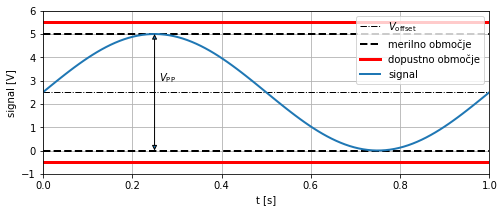
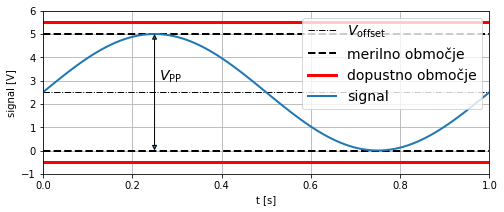
Update documentation

Changed region(s): [[0.5952, 0.0566, 0.9821, 0.5377], [0.2976, 0.3396, 0.3571, 0.3962], [0.9524, 0.4528, 0.9821, 0.4811]]

diff --git a/searchindex.js b/searchindex.js
@@ -1,1 +1,1 @@
-Search.setIndex({docnames:["intro","notebooks/01 - Uvod v LabView","notebooks/02 - LabView in Arduino, Python"],envversion:{"sphinx.domains.c":2,"sphinx.domains.changeset":1,"sphinx.domains.citation":1,"sphinx.domains.cpp":4,"sphinx.domains.index":1,"sphinx.domains.javascript":2,"sphinx.domains.math":2,"sphinx.domains.python":3,"sphinx.domains.rst":2,"sphinx.domains.std":2,"sphinx.ext.intersphinx":1,"sphinxcontrib.bibtex":9,sphinx:56},filenames:["intro.md","notebooks\\01 - Uvod v LabView.ipynb","notebooks\\02 - LabView in Arduino, Python.ipynb"],objects:{},objnames:{},objtypes:{},terms:{"0":[1,2],"001":[],"01":[1,2],"018849":[],"02":2,"03":[],"037697":[],"056541":[],"08":[],"0x1b62e986c50":[],"0x1e373b44100":[],"0x1e373b6ff40":[],"0x1e373c2d1e0":[],"0x1f3b747b070":[],"0x1f3b74c6620":[],"0x1f3b7516bc0":[],"0x242f512a500":[],"0x242f7271b10":[],"0x242f72c6bc0":[],"0x25052e82080":2,"0x25055149a50":2,"0x2505514a590":2,"0x259f4cfead0":[],"0x259f4d4e5f0":[],"0x259f4dc3a60":[],"0x2807a535f90":[],"0x2807c60fe50":[],"0x2807c685f60":[],"0x28bfba92110":[],"1":0,"10":[],"100":2,"1000":1,"115200":2,"13":2,"18":[],"19680801":[],"2":[],"200":[],"201":[],"2014":[],"202":[],"2022":[],"203":[],"204":[],"25":2,"250":2,"26":2,"3944063186645507812":[],"4":[],"432x288":2,"46":[],"48":[],"487619402":[],"5":[],"5v":2,"6":2,"71":[],"72":[],"73":[],"74":[],"75":[],"8":2,"9600":2,"\u010da":1,"\u010dasa":2,"\u010dasu":2,"\u010de":[0,1,2],"\u010demer":1,"\u010deprav":[1,2],"\u010dimve\u010d":2,"\u0161e":2,"\u0161ele":2,"\u0161irok":2,"\u0161t":2,"\u0161tevi\u010dnici":1,"\u0161tevil\u010dnic":1,"\u0161tevil\u010dnici":1,"\u0161tevila":2,"\u0161tevilo":2,"\u0161tevilom":1,"\u0161tevilu":2,"\u0161tudijskega":0,"\u0161um":2,"\u0161uma":2,"\u017ee":[1,2],"\u017eelimo":[1,2],"\u017eelit":[1,2],"\u017eeljenimi":1,"blji\u017enic":[],"blji\u017enica":1,"boolean":2,"brezpla\u010dn":2,"brezpla\u010dnih":2,"default":[],"do":[1,2],"dolo\u010denih":1,"dolo\u010denim":1,"dolo\u010ditev":2,"doma\u010d":[],"doma\u010da":[],"doma\u010dih":[0,1,2],"dopu\u0161\u010da":2,"druga\u010d":0,"frekven\u010dnega":2,"function":[],"grafi\u010dnega":1,"grafi\u010dni":1,"grafi\u010dno":[1,2],"import":[1,2],"izpi\u0161it":2,"izri\u0161":2,"kakr\u0161negakoli":0,"klju\u010dem":2,"knji\u017enic":2,"lo\u010deni":2,"lu\u010di":2,"mi\u0161kinim":1,"mo\u010di":2,"mo\u017enost":0,"mo\u017enosti":2,"mo\u017enostjo":1,"mogo\u010d":[0,1],"mogo\u010da":2,"na\u0161":2,"na\u0161em":2,"najla\u017ej":1,"najosnovnej\u0161ega":1,"najvi\u0161ja":2,"naklju\u010dno":2,"nalo\u017e":1,"nalo\u017eeni":2,"naprednej\u0161":2,"ne\u017eelenega":2,"numeir\u010dnega":[],"numer\u010dnih":1,"numeri\u010dn":2,"numeri\u010dnega":1,"numeri\u010dnih":2,"numeri\u010dnimi":1,"ob\u010dutljivosti":2,"obi\u010dajno":[1,2],"obmo\u010dj":2,"obmo\u010dja":2,"odlo\u010dimo":1,"okvir\u010dki":0,"omogo\u010da":[0,1,2],"omogo\u010dja":2,"ozna\u010den":[1,2],"ozna\u010deni":0,"ozna\u010dimo":1,"periodi\u010dnega":2,"plo\u0161\u010d":[1,2],"plo\u0161\u010di":[1,2],"plo\u0161\u010do":2,"po\u010disti":1,"po\u0161kodujemo":2,"po\u017eenemo":1,"podro\u010dj":2,"pomo\u010di":1,"poro\u010dila":1,"poro\u010dilo":[0,2],"poro\u010dilu":[0,1],"pove\u017eemo":1,"pove\u017eet":1,"povle\u010det":1,"prej\u0161nji":2,"prese\u017eemo":2,"pridr\u017eujemo":0,"prika\u017e":1,"prika\u017eit":[1,2],"prikli\u010demo":1,"priklju\u010dimo":2,"priklju\u010dit":2,"priklju\u010dkom":2,"priklju\u010dkov":2,"ra\u010dunalnik":2,"raz\u0161irimo":1,"raz\u0161iritv":0,"razi\u0161\u010dit":[1,2],"razli\u010dnih":[1,2],"razli\u010dno":1,"re\u0161evali":0,"re\u0161itv":0,"return":[],"rez\u0161iritv":[],"stro\u017eja":2,"strojni\u0161tvo":0,"switch":2,"te\u017eav":2,"tipi\u010dno":2,"to\u010dk":2,"to\u010dno":1,"true":2,"u\u010dilnic":0,"u\u010dilnici":[0,1,2],"upo\u0161tevali":2,"v\u010dasih":1,"ve\u010d":[0,2],"ve\u010dini":1,"ve\u010dkrat":1,"ve\u010dnamenskih":2,"ve\u010dopravilnost":1,"vi\u0161j":0,"visokofrekven\u010dnega":2,"vklju\u010dit":[0,2],"vklju\u010duj":[1,2],"vzor\u010denja":2,"za\u010dnemo":1,"za\u010dnet":1,"zaklju\u010denem":2,"zaklju\u010dimo":1,"zapi\u0161":2,"zdru\u017eit":2,A:[1,2],As:[],But:[],For:[],If:[],In:[],It:[],No:[],That:[],The:[],There:[],To:[1,2],With:[],_:2,_ioncontext:[],_lvm_dump:[],_read_lvm_bas:[],a0:2,a1:2,about:[],accept:[],adc:2,add_:[],aditivno:2,ali:[1,2],align:[],all:[],all_seg:2,allow:[],also:[],amplitudo:1,an:[],analog:2,analognem:2,analognih:2,analognimi:2,analogno:2,analogread:2,ang:1,ani:[],annot:2,apajalna:2,aplikacij:2,aplikacijah:2,aplikacijam:1,appdata:[],append:2,ar:[],arang:2,arduina:2,arduino:0,arduinom:[],arra:2,arrai:[1,2],arrowprop:2,arrowstyl:2,auditori:[],australia:[],avtomatizacij:1,avtomatska:1,ax:2,axhlin:2,b:1,barvo:2,base:[],baud:2,beaglebon:2,begin:[],being:[],berljivo:1,bib:[],bibliographi:[],bibtex:[],bistven:2,bit:2,biti:2,bitna:2,bitni:2,black:2,block:1,blokovneg:1,blokovnega:[1,2],blokovnem:1,blokovni:1,bnc:2,bo:[0,1],bodit:[0,2],bodo:[1,2],bolj:2,bomo:[0,1,2],book:[],bost:0,both:[],box:[],branj:1,branja:1,branju:2,brati:[0,1],brez:0,brian:[],brisban:[],brskalniku:0,build:[],built:[],bundl:[],c:2,call:[],can:[],cc:2,celic:[1,2],celoti:2,channel:2,channel_1:2,channel_2:2,chart:1,check:[],christoph:[],cite:[],close:2,cm:[],cmap:[],code:[],cognit:[],col:2,cold:[],color:[],com:2,command:[],comment:[],commonmark:[],commun:2,complete_data:2,concaten:2,confer:[],contain:1,content:[],control:1,convers:1,convert:[],coolwarm:[],cortex:[],creat:1,ctrl:1,custom_lin:[],cycler:[],d:2,da:[1,2],dac:2,dan:0,data:[1,2],date:[1,2],datotek:[0,2],datoteka:2,datoteki:2,datoteko:[0,1,2],de:[],decimal_separ:[1,2],defin:[],definirano:0,dejanjsk:2,del:[1,2],dela:1,delijo:2,delo:0,delov:1,delta_x:2,delu:2,depend:[],depth:[],desni:[1,2],desnim:1,detail:[],devic:2,diagram:1,diagrama:[1,2],diagramu:1,dict:2,dict_kei:[1,2],differ:[],digit:2,digitaln:2,digitalnega:2,digitalnih:2,digitalno:2,direct:[],directori:[],displai:[],dobili:2,dobimo:2,dobljenem:2,document:[],dodajanj:1,dodajanjem:1,dodajt:2,dodatek:[0,1,2],dodaten:1,dodati:1,dodatn:0,doe:[],dokler:1,dokumentov:0,dollar:[],domen:[],dopolnit:1,dopustn:2,dopustnih:2,dopustno:2,dostop:2,dostopamo:2,doubl:1,dovoljenih:2,download:0,drop:1,drsnikom:1,druga:[1,2],drugega:1,drugih:1,dt:2,dump_fil:[],dveh:2,e:[0,1,2],ecosystem:[],eden:2,edini:2,edit:[1,2],ekosistema:2,ekstremov:2,el:2,element:1,elementa:1,elementi:1,elementov:[1,2],els:[],emb:[],en:2,encod:[],end:[],enem:1,enostaven:2,enostavn:2,enostavni:2,enostavno:[0,1],enot:1,enotami:1,enumer:2,errno:[],error:1,escap:[],etc:[],evid:[],exampl:[],execut:1,express:1,extens:[],f:2,fakulteti:0,feel:[],few:[],fft:1,fig:[],figsiz:2,figur:2,file:[0,1,2],file_2:2,filenam:[],filenotfounderror:[],filtriranja:2,fix:[],flavor:[],follow:[],frekvenc:[1,2],frekvenco:1,from:1,front:1,frontier:[],funkcij:[1,2],funkcija:1,funkciji:2,funkcijo:[1,2],funkcijskem:1,funkcionalnost:2,g:1,ga:[0,1,2],gbina:2,gener:2,generir:0,generirajmo:1,generiramo:1,generiran:1,generiranj:[],generirati:1,get:[],give:[],glavami:2,glavnem:1,glej:2,glejt:[1,2],go:[],gpio:2,graf:[1,2],grafu:[1,2],graph:2,gre:[0,1,2],grid:2,guid:[],gumb:2,gumba:1,gumbom:[1,2],h:1,have:[],hdhpk14:[],header:2,heer:[],hello:1,help:[],here:[],highlight:1,hitro:1,hitrost:2,hitrosti:1,hkrati:2,hkratni:2,hobbyist:2,holdgraf:[],holdgraf_evidence_2014:[],hot:[],how:[],htjgeojc4za:[],html:[0,1],http:[],human:[],hz:[1,2],i2c:2,i:1,ignor:[],ii:[],ikono:1,im:2,ima:2,imag:[],imajo:[0,1],imenovan:1,includ:[],indek:2,indeksa:2,index:2,individualiziran:[1,2],individualizirana:0,inform:[],informacij:0,init:[],inlin:[],input:1,insert:[],instruct:[],instrument:1,instrumentov:1,integ:1,integracij:2,integracija:2,integriran:2,interact:[],interaktivnih:0,intern:[],invalid:[],ion:[],ipykernel_11680:[],ipykernel_13948:[],ipykernel_14608:[],ipykernel_16452:[],ipykernel_18788:[],ipykernel_18828:[],ipykernel_19740:[],ipykernel_5188:[],ipykernel_7136:[],ipynb:[],isstem:[],istem:2,iteracij:2,iteracijah:2,iteracijam:1,iteracijami:2,iteriramo:[1,2],iteriranju:1,iz:[0,1,2],izberemo:1,izbira:2,izbiro:2,izbrali:2,izbran:1,izbranega:[1,2],izbranem:2,izbranih:2,izbrano:[1,2],izhodni:2,izklop:2,izklopa:2,izklopimo:1,izm:[1,2],izpi:1,izrisovali:2,izrisuj:2,izvaja:0,izvajanj:1,izvajanja:1,izvedbam:1,izvedbi:[0,2],izvedejo:1,izvedemo:1,izvorna:0,izvoz:1,izvozit:1,je:[0,1,2],jezik:1,jezikih:1,jezikov:1,jeziku:1,jih:[0,1],jo:[0,1,2],jupyt:[0,1,2],jupyterbook:[],jupytext:[],just:[],k1:2,k2:2,k:2,kabel:2,kadar:2,kanal:2,kanal_1:2,kanal_2:2,kanala:2,kanali:2,kanalih:2,kanalov:2,kanalu:2,kasnej:1,kater:2,katerega:[1,2],kateregakoli:2,katerem:[0,2],kateri:[],katerih:[0,1,2],katerim:1,katerimi:2,katerm:[1,2],katero:1,keep:[],kei:[1,2],ker:2,kernel:[],ki:[0,1,2],kind:[],kjer:[1,2],klik:1,klikom:1,kljub:2,km:1,knight:[],ko:[1,2],koaksialn:2,koaksialnih:2,koda:0,kode:1,kodo:[0,1,2],koliko:2,komentarj:0,komentirajt:0,kompatibilnimi:1,komponento:2,komunikacij:1,konec:1,kontinuirano:1,kontroln:2,kontrolnega:1,kontrolnih:1,kontrolnimi:1,koristn:0,kot:[0,1],kratk:0,kratkem:1,kratko:[0,2],krmiljenj:2,krmiljenja:1,krmiln:[1,2],krmilni:2,la_:[],label:2,laboratorijskih:[0,1],labview:0,lahko:[1,2],languag:[],last:[],led:2,legend:2,len:2,let:[],letnem:0,letnika:0,lfilter:2,lib:[],like:[],limit:2,line2d:[],line:[],linspac:2,list:1,ljubljani:0,ll:[],loaded_data:2,loaded_data_2:2,loc:2,local:[],logspac:[],lot:[],ls:2,lvm:[1,2],lvm_data:[],lvm_read:[1,2],lw:2,m:1,magistrskega:0,major:[],make:[],makerhub:2,manag:2,mani:[],markdownfil:[],markedli:[],markup:[],math:[],mathrm:2,matplotlib:2,mbox:[],md:[],mea:1,mean:[],measur:1,med:[1,2],medium:[],mejah:2,mejitev:[],meni:1,menija:2,meniju:[0,1],meriln:2,merilnega:2,merilnih:2,merilno:2,merjenja:2,merjenju:2,metod:1,mikrokrmilniku:2,modela:2,modro:2,modul:[],modula:1,moramo:[1,2],more:[],moreov:[],most:[],multi_head:[1,2],multiprocess:1,must:[],n:2,na:[0,1,2],nabor:[1,2],naboru:2,nadgradimo:1,nadgradit:2,nadzorno:2,nadzorovati:2,naj:[1,2],najdemo:1,najdet:[0,1,2],najprej:0,nalg:2,nalog:[1,2],naloga:[],nalogi:[0,1],nalogo:0,nam:2,name:2,namen:2,namenjen:[0,1],namenjena:1,namenjeno:1,namesto:[1,2],namig:[1,2],nan:[],naovdilom:0,napajalni:2,napajan:2,napajanj:2,napak:1,napetost:2,napetosti:2,napetostjo:2,napolnimo:1,naprav:2,napravami:2,nasilno:2,naslednjega:0,naslednji:2,nastanku:0,nastavitev:2,nastavitv:2,nastavitvi:2,nastavljenega:2,nastavljeno:2,nation:1,navodila:[1,2],navodilom:0,ne:[1,2],need:[],nekaterimi:1,nekomercialno:2,neodvisn:2,nepopoln:1,neurosci:[],ni:[0,1,2],nist:[0,2],nizi:1,njihov:2,njim:1,note:[],notebook:[0,1,2],np:2,npr:[0,1],number:1,numer:1,numpi:2,o:1,obdelali:1,obdelava_:2,obdelavo:1,obdelujet:2,objavljena:0,oblik:2,oblika:[0,2],obliki:[0,1,2],obliko:[0,2],obstaja:1,ocen:0,od:[1,2],oddaja:[0,2],oddajanj:2,oddajati:2,oddaji:1,oddajo:[0,1,2],oddajt:2,oddati:0,odpiranju:2,odprava:2,odsek:1,odsotnost:0,off:[],offset:2,okolj:1,okolju:[0,1,2],om:1,omejen:2,omejitev:2,one:[],open:2,oper:[1,2],opr:1,oprem:[0,2],opremo:[1,2],optimalna:2,org:[],orodja:1,orodjem:2,orodn:2,osnov:2,osnovi:1,osnovna:1,osnovni:2,osnovnih:2,osnovno:2,osvetljen:2,other:[],out:[],output:2,overview:[],pa:[0,1,2],packag:2,page:[],paket:[1,2],paketom:2,paketov:2,panel:1,paramet:[1,2],parametr:2,parametri:[1,2],parametrov:2,particular:[],paslei:[],path:[],pavz:2,pdf:[0,1,2],peripher:2,pi:2,plb968815d7bb78f9c:[],plot:2,plt:2,png:1,po:[1,2],podan:1,podatek:2,podatk:[0,1,2],podatki:[1,2],podatkov:0,podatkovnega:1,podatkovni:[],podjetja:1,podlagi:1,podoben:1,podobnih:2,podobno:1,podpira:2,podprogram:[1,2],podprograma:1,podprogrami:[],podprogramu:1,podprta:1,podprtih:2,podtkov:1,podtopkov:2,pogled:1,pogledamo:1,pogledu:1,poglejmo:[1,2],pogoja:1,pogosto:2,poleg:1,polj:1,polja:[1,2],polju:1,poljubn:1,poljubno:2,pomag:2,pomembna:2,pomembni:1,pomen:0,ponavljati:1,ponovitev:1,ponovljenim:1,ponovnem:2,poravnaj:1,posameni:2,posamenzih:2,posamezn:2,posameznega:2,posameznem:2,posamezni:[1,2],poseben:0,posebnega:2,posebno:2,poskusit:1,poskusu:2,posodablj:1,posodob:1,posodobijo:1,post:[],postopek:1,potek:1,poteka:[0,2],potreb:2,potrebi:2,potrebn:1,potrebno:[0,1],pove:2,povezan:2,povezanega:2,povezani:2,povezanih:2,povezano:2,povezav:[1,2],povezavami:1,povezavi:1,povezavo:[1,2],povratni:2,povzamet:0,power:[],pozabit:1,pozorni:[0,2],pp:2,prav:[0,2],pravico:0,praviln:2,prebir:1,prebirali:1,prebrano:2,pred:2,predavanja:0,preden:2,predict:[],predlog:0,predlogah:0,predmeta:2,predmetu:[0,1],predpisan:2,predpisaneih:2,predpisanimi:[1,2],predstavit:2,predstavljajo:2,prekin:2,prekinemo:1,preko:[0,2],presegli:2,presenc:[],pretok:1,pretoku:1,pretvor:2,pretvorb:[1,2],pretvorba:1,pretvorbo:[1,2],pretvori:1,pretvorit:0,pretvornik:2,pretvorniku:2,prever:2,preverit:2,preverj:1,preverjanju:0,pri:[0,1,2],pride:1,pridemo:1,pridobljeni:2,pridobljenih:2,prikaz:[1,2],prikaza:1,prikazana:1,prikazanih:[1,2],prikazom:2,prikazuj:[1,2],prikazujmo:1,priklic:1,primer:[1,2],primerna:0,primeru:2,print:1,pripenjajmo:1,priprav:0,pripravi:0,pripravimo:[1,2],pripravit:[0,1,2],pripravljen:[0,2],pripravljeno:1,privzeta:2,procesiranj:0,procesiranja:1,procesiranju:[1,2],procesorsk:2,program:[],programa:[0,1,2],programiranj:[],programiranjem:1,programsk:0,programska:1,programskem:[0,1],programski:1,programskih:[1,2],programsko:1,programu:[1,2],project:[],prop_cycl:[],properli:[],protokolov:1,prvi:[],purpos:[],py:[],pypi:[],pyplot:2,python310:[],python:[0,1],quick:1,r:2,rabo:2,ramsai:[],randn:[],random:[],rang:2,raspberri:2,rate:2,raziskali:0,razloga:0,razporedi:1,razvidni:2,razvitih:2,razvojn:2,rcparam:[],read:[1,2],read_from_pickl:[],read_lin:[],reader_vers:[1,2],realnem:2,realnih:2,recent:[],refer:[],regular:[],rel:[],relativno:2,relink:1,render:[],reproduc:[],rest:[],robert:[],rok:0,run:1,s:[0,1,2],sam:2,same:[],sami:[0,1],samo:2,samodejno:1,samostojno:0,sampl:2,satvek:1,saved_data:1,scipi:[1,2],se:[0,1],sedaj:2,see:[],seed:[],seg:2,segment:[1,2],segmentih:2,segmentov:2,sekundo:1,select:1,semestru:0,separ:[1,2],serijsk:2,serijska:2,serijskih:2,serv:[],sesetavljen:1,seveda:2,shape:2,shift:1,should:[],show:[],shranjen:2,shranjenega:1,shranjenem:1,shranjenih:2,shranjevanj:2,shranjevanju:2,shranjnih:2,shranjujmo:1,shrinka:2,shrinkb:2,si:[0,2],sicer:2,sig:1,sign:[],signal:[1,2],signala:[1,2],signali:2,signalni:2,signalov:0,signalu:[1,2],similar:[],simpl:[],simul:1,simulacijo:2,sin:2,sine:[],sinu:1,sinusnega:1,sinusni:1,sistem:[0,2],sistema:2,site:[],size:2,skaldu:0,sklopu:2,skupaj:[0,2],skupnosti:2,slight:[],slika:2,slike:1,sliki:2,sliko:1,slovar:2,slovarja:2,slovarju:2,small:[],smemo:2,smiselno:2,smo:[1,2],snippet:1,snovjo:0,so:[0,1,2],sodelovanja:0,some:[],space:1,span:[],special:[],specif:[],specifikacij:2,sphinx:[],spi:2,spletnem:0,spodaj:[1,2],spodanja:2,spodnji:2,spoznali:2,sprememb:[0,1],spremembi:1,spremenljivk:2,sproti:1,srojno:1,staikala:1,stand:[],standardnih:1,stanj:2,stanja:2,start:[],starter:[],state:[],stavk:1,stavki:[],stavkom:1,stavku:1,ste:2,stikalom:1,stolpca:2,stolpcev:2,stolpci:2,stolpec:2,store:[],storimo:1,strani:2,string:1,strojn:2,strojno:2,structur:1,struktura:1,strukturi:2,strukturirani:2,sub:1,subplot:[],subvi:1,support:[],sure:[],surov:2,surovih:2,svetujemo:1,svoje:0,svojo:0,syntax:[],syntaxerror:[],t:2,t_complet:2,t_segment:2,t_start:2,ta:1,tab:[],tabe:2,tabel:2,tabelo:2,takega:2,tako:[0,1,2],takoj:1,tega:2,tejl:1,tekstovni:1,tem:[1,2],temelji:[1,2],temp:[],ter:[0,2],termin:2,terminala:2,terminalov:2,test_01:2,test_seg:2,tex:[],text:2,textcoord:2,thei:[],thi:[],thing:[],those:[],time:[1,2],time_pref:[1,2],tipa:1,tipi:[],tool:[],toolkit:2,top:[],topic:[],torej:[1,2],traceback:[],trajanja:2,treat:[],treba:2,trenutno:1,tudi:[0,1,2],tukaj:0,two:[],type:[],u:2,understand:[],upora:1,uporab:[1,2],uporaba:1,uporabili:2,uporabimo:[1,2],uporabit:[1,2],uporabljali:1,uporabljen:2,uporabn:[],uporabna:1,uporabnik:1,uporabniki:2,uporabo:[1,2],uporait:2,upravitelj:2,upravljanik:2,upravljanj:2,us:[],usb:2,usp:0,ustrezn:[0,1],ustreznega:[1,2],ustreznih:[0,2],ustreznim:2,ustrezno:[0,1,2],ustvarimo:1,utf8:[],uvod:[],uvoz:1,v:[0,2],v_:2,v_offset:2,v_pp:2,vaj:0,vajah:0,vaji:[0,2],variat:[],vcc:2,ve:1,vedno:2,vezj:2,vhodi:2,vhodih:2,vhodn:2,vhodni:[1,2],vhodnih:2,vhodnimi:2,vhodov:2,vi:[1,2],vipm:2,virtual:1,virtualni:1,vizualiziramo:1,vklop:2,vklopa:2,vklopimo:1,vnaprej:1,vodi:1,voljo:[1,2],vplivajo:1,vrata:2,vratih:2,vrednost:[1,2],vrednosti:[1,2],vrednostjo:2,vrednsot:2,vrhu:1,vrsti:1,vrstic:2,vrstice:2,vrsto:1,vsak:2,vse:[1,2],vsebin:0,vsebuj:2,vsi:1,vzorcev:1,vzorci:2,vzorni:1,vzpostavi:2,vzpostavitev:2,vzpostavitv:2,want:[],watch:[],waveform:[1,2],well:[],wendi:[],when:[],wherea:[],whether:[],which:[],wire:1,work:[],world:1,write:[1,2],writer_vers:[1,2],written:[],www:[],x0:2,x_column:[1,2],x_dimens:2,xlabel:2,xlim:2,xy:2,xycoord:2,xytext:2,y:2,ylabel:2,ylim:2,you:[],your:[],youtub:[],z:[0,1],za:[0,1,2],zadostn:2,zagonu:1,zahtev:0,zajamit:2,zaje:2,zajem:1,zajema:[1,2],zajemn:2,zajemnega:2,zajemni:2,zajemom:2,zajemu:2,zajet:[1,2],zajetem:2,zajetemu:2,zajetih:1,zajetimi:2,zajeto:2,zank:2,zanki:[1,2],zanko:1,zapakirali:1,zapakiramo:1,zapakirati:1,zapi:2,zapisanih:1,zapisati:1,zapisn:0,zapisu:2,zaporedj:1,zaporednega:2,zaporednimi:2,zapr:2,zapreti:2,zaprti:2,zaprto:1,zaradi:2,zato:[1,2],zavihek:1,zavihku:1,zbrane:2,zgodovino:2,zgornji:2,zgornjo:2,zmogljiv:[1,2],zmogljivosti:2,znotraj:1,zunanjih:2,zunanjimi:2,zvezi:0},titles:["Uvod","<span class=\"section-number\">1. </span>Uvod v LabView","<span class=\"section-number\">2. </span>LabView in Arduino, Python"],titleterms:{"1":[1,2],"10":[1,2],"2":[1,2],"3":[1,2],"4":[1,2],"5":[1,2],"6":1,"7":1,"8":1,"9":1,"blji\u017enic":1,"case":1,"doma\u010d":0,"doma\u010da":[1,2],"while":1,For:1,add:[],an:[],arduino:2,arduinom:2,atmega328p:2,avtomatizacija:2,block:[],book:[],branj:2,cell:[],citat:[],code:[],content:[],creat:[],datotek:1,dg1022:2,digitalni:2,directiv:[],exampl:[],file:[],generatorja:2,generiranj:1,i:2,jupyt:[],krmilni:1,labview:[1,2],learn:[],linx:2,markdown:[],metadata:[],minut:2,more:[],myst:[],nalog:0,naloga:[0,1,2],notebook:[],o:2,obdelava:2,opozorilo:2,output:[],podatkov:[1,2],podatkovni:1,podprogrami:1,povezava:2,pozorilo:[],preverjanj:0,program:[1,2],programiranj:1,prvi:[1,2],python:2,quickli:[],rigol:2,role:[],sampl:[],shranjevanj:1,signalov:[1,2],stavek:1,stavki:1,terminali:2,tipi:1,u:1,uno:2,uporaba:2,uporabn:1,uvod:[0,1],v:1,vsebina:0,welcom:[],what:[],yaml:[],your:[],z:2,zajem:2,zajetih:2,zank:1,zanka:1}})
+Search.setIndex({docnames:["intro","notebooks/01 - Uvod v LabView","notebooks/02 - LabView in Arduino, Python"],envversion:{"sphinx.domains.c":2,"sphinx.domains.changeset":1,"sphinx.domains.citation":1,"sphinx.domains.cpp":4,"sphinx.domains.index":1,"sphinx.domains.javascript":2,"sphinx.domains.math":2,"sphinx.domains.python":3,"sphinx.domains.rst":2,"sphinx.domains.std":2,"sphinx.ext.intersphinx":1,"sphinxcontrib.bibtex":9,sphinx:56},filenames:["intro.md","notebooks\\01 - Uvod v LabView.ipynb","notebooks\\02 - LabView in Arduino, Python.ipynb"],objects:{},objnames:{},objtypes:{},terms:{"0":[1,2],"001":[],"01":[1,2],"018849":[],"02":2,"03":[],"037697":[],"056541":[],"08":[],"0x1b62e986c50":[],"0x1e373b44100":[],"0x1e373b6ff40":[],"0x1e373c2d1e0":[],"0x1f3b747b070":[],"0x1f3b74c6620":[],"0x1f3b7516bc0":[],"0x20ca81f7fa0":2,"0x20ca8253ee0":2,"0x20ca8315330":2,"0x242f512a500":[],"0x242f7271b10":[],"0x242f72c6bc0":[],"0x25052e82080":[],"0x25055149a50":[],"0x2505514a590":[],"0x259f4cfead0":[],"0x259f4d4e5f0":[],"0x259f4dc3a60":[],"0x2807a535f90":[],"0x2807c60fe50":[],"0x2807c685f60":[],"0x28bfba92110":[],"1":0,"10":[],"100":2,"1000":1,"115200":2,"13":2,"14":2,"18":[],"19680801":[],"2":[],"200":[],"201":[],"2014":[],"202":[],"2022":[],"203":[],"204":[],"25":2,"250":2,"26":2,"3944063186645507812":[],"4":[],"432x288":2,"46":[],"48":[],"487619402":[],"5":[],"5v":2,"6":2,"71":[],"72":[],"73":[],"74":[],"75":[],"8":2,"9600":2,"\u010da":1,"\u010dasa":2,"\u010dasu":2,"\u010de":[0,1,2],"\u010demer":1,"\u010deprav":[1,2],"\u010dimve\u010d":2,"\u0161e":2,"\u0161ele":2,"\u0161irok":2,"\u0161t":2,"\u0161tevi\u010dnici":1,"\u0161tevil\u010dnic":1,"\u0161tevil\u010dnici":1,"\u0161tevila":2,"\u0161tevilo":2,"\u0161tevilom":1,"\u0161tevilu":2,"\u0161tudijskega":0,"\u0161um":2,"\u0161uma":2,"\u017ee":[1,2],"\u017eelimo":[1,2],"\u017eelit":[1,2],"\u017eeljenimi":1,"blji\u017enic":[],"blji\u017enica":1,"boolean":2,"brezpla\u010dn":2,"brezpla\u010dnih":2,"default":[],"do":[1,2],"dolo\u010denih":1,"dolo\u010denim":1,"dolo\u010ditev":2,"doma\u010d":[],"doma\u010da":[],"doma\u010dih":[0,1,2],"dopu\u0161\u010da":2,"druga\u010d":0,"frekven\u010dnega":2,"function":[],"grafi\u010dnega":1,"grafi\u010dni":1,"grafi\u010dno":[1,2],"import":[1,2],"izpi\u0161it":2,"izri\u0161":2,"kakr\u0161negakoli":0,"klju\u010dem":2,"knji\u017enic":2,"lo\u010deni":2,"lu\u010di":2,"mi\u0161kinim":1,"mo\u010di":2,"mo\u017enost":0,"mo\u017enosti":2,"mo\u017enostjo":1,"mogo\u010d":[0,1],"mogo\u010da":2,"na\u0161":2,"na\u0161em":2,"najla\u017ej":1,"najosnovnej\u0161ega":1,"najvi\u0161ja":2,"naklju\u010dno":2,"nalo\u017e":1,"nalo\u017eeni":2,"naprednej\u0161":2,"ne\u017eelenega":2,"numeir\u010dnega":[],"numer\u010dnih":1,"numeri\u010dn":2,"numeri\u010dnega":1,"numeri\u010dnih":2,"numeri\u010dnimi":1,"ob\u010dutljivosti":2,"obi\u010dajno":[1,2],"obmo\u010dj":2,"obmo\u010dja":2,"odlo\u010dimo":1,"okvir\u010dki":0,"omogo\u010da":[0,1,2],"omogo\u010dja":2,"ozna\u010den":[1,2],"ozna\u010deni":0,"ozna\u010dimo":1,"periodi\u010dnega":2,"plo\u0161\u010d":[1,2],"plo\u0161\u010di":[1,2],"plo\u0161\u010do":2,"po\u010disti":1,"po\u0161kodujemo":2,"po\u017eenemo":1,"podro\u010dj":2,"pomo\u010di":1,"poro\u010dila":1,"poro\u010dilo":[0,2],"poro\u010dilu":[0,1],"pove\u017eemo":1,"pove\u017eet":1,"povle\u010det":1,"prej\u0161nji":2,"prese\u017eemo":2,"pridr\u017eujemo":0,"prika\u017e":1,"prika\u017eit":[1,2],"prikli\u010demo":1,"priklju\u010dimo":2,"priklju\u010dit":2,"priklju\u010dkom":2,"priklju\u010dkov":2,"ra\u010dunalnik":2,"raz\u0161irimo":1,"raz\u0161iritv":0,"razi\u0161\u010dit":[1,2],"razli\u010dnih":[1,2],"razli\u010dno":1,"re\u0161evali":0,"re\u0161itv":0,"return":[],"rez\u0161iritv":[],"stro\u017eja":2,"strojni\u0161tvo":0,"switch":2,"te\u017eav":2,"tipi\u010dno":2,"to\u010dk":2,"to\u010dno":1,"true":2,"u\u010dilnic":0,"u\u010dilnici":[0,1,2],"upo\u0161tevali":2,"v\u010dasih":1,"ve\u010d":[0,2],"ve\u010dini":1,"ve\u010dkrat":1,"ve\u010dnamenskih":2,"ve\u010dopravilnost":1,"vi\u0161j":0,"visokofrekven\u010dnega":2,"vklju\u010dit":[0,2],"vklju\u010duj":[1,2],"vzor\u010denja":2,"za\u010dnemo":1,"za\u010dnet":1,"zaklju\u010denem":2,"zaklju\u010dimo":1,"zapi\u0161":2,"zdru\u017eit":2,A:[1,2],As:[],But:[],For:[],If:[],In:[],It:[],No:[],That:[],The:[],There:[],To:[1,2],With:[],_:2,_ioncontext:[],_lvm_dump:[],_read_lvm_bas:[],a0:2,a1:2,about:[],accept:[],adc:2,add_:[],aditivno:2,ali:[1,2],align:[],all:[],all_seg:2,allow:[],also:[],amplitudo:1,an:[],analog:2,analognem:2,analognih:2,analognimi:2,analogno:2,analogread:2,ang:1,ani:[],annot:2,apajalna:2,aplikacij:2,aplikacijah:2,aplikacijam:1,appdata:[],append:2,ar:[],arang:2,arduina:2,arduino:0,arduinom:[],arra:2,arrai:[1,2],arrowprop:2,arrowstyl:2,auditori:[],australia:[],avtomatizacij:1,avtomatska:1,ax:2,axhlin:2,b:1,barvo:2,base:[],baud:2,beaglebon:2,begin:[],being:[],berljivo:1,bib:[],bibliographi:[],bibtex:[],bistven:2,bit:2,biti:2,bitna:2,bitni:2,black:2,block:1,blokovneg:1,blokovnega:[1,2],blokovnem:1,blokovni:1,bnc:2,bo:[0,1],bodit:[0,2],bodo:[1,2],bolj:2,bomo:[0,1,2],book:[],bost:0,both:[],box:[],branj:1,branja:1,branju:2,brati:[0,1],brez:0,brian:[],brisban:[],brskalniku:0,build:[],built:[],bundl:[],c:2,call:[],can:[],cc:2,celic:[1,2],celoti:2,channel:2,channel_1:2,channel_2:2,chart:1,check:[],christoph:[],cite:[],close:2,cm:[],cmap:[],code:[],cognit:[],col:2,cold:[],color:[],com:2,command:[],comment:[],commonmark:[],commun:2,complete_data:2,concaten:2,confer:[],contain:1,content:[],control:1,convers:1,convert:[],coolwarm:[],cortex:[],creat:1,ctrl:1,custom_lin:[],cycler:[],d:2,da:[1,2],dac:2,dan:0,data:[1,2],date:[1,2],datotek:[0,2],datoteka:2,datoteki:2,datoteko:[0,1,2],de:[],decimal_separ:[1,2],defin:[],definirano:0,dejanjsk:2,del:[1,2],dela:1,delijo:2,delo:0,delov:1,delta_x:2,delu:2,depend:[],depth:[],desni:[1,2],desnim:1,detail:[],devic:2,diagram:1,diagrama:[1,2],diagramu:1,dict:2,dict_kei:[1,2],differ:[],digit:2,digitaln:2,digitalnega:2,digitalnih:2,digitalno:2,direct:[],directori:[],displai:[],dobili:2,dobimo:2,dobljenem:2,document:[],dodajanj:1,dodajanjem:1,dodajt:2,dodatek:[0,1,2],dodaten:1,dodati:1,dodatn:0,doe:[],dokler:1,dokumentov:0,dollar:[],domen:[],dopolnit:1,dopustn:2,dopustnih:2,dopustno:2,dostop:2,dostopamo:2,doubl:1,dovoljenih:2,download:0,drop:1,drsnikom:1,druga:[1,2],drugega:1,drugih:1,dt:2,dump_fil:[],dveh:2,e:[0,1,2],ecosystem:[],eden:2,edini:2,edit:[1,2],ekosistema:2,ekstremov:2,el:2,element:1,elementa:1,elementi:1,elementov:[1,2],els:[],emb:[],en:2,encod:[],end:[],enem:1,enostaven:2,enostavn:2,enostavni:2,enostavno:[0,1],enot:1,enotami:1,enumer:2,errno:[],error:1,escap:[],etc:[],evid:[],exampl:[],execut:1,express:1,extens:[],f:2,fakulteti:0,feel:[],few:[],fft:1,fig:[],figsiz:2,figur:2,file:[0,1,2],file_2:2,filenam:[],filenotfounderror:[],filtriranja:2,fix:[],flavor:[],follow:[],fontsiz:2,frekvenc:[1,2],frekvenco:1,from:1,front:1,frontier:[],funkcij:[1,2],funkcija:1,funkciji:2,funkcijo:[1,2],funkcijskem:1,funkcionalnost:2,g:1,ga:[0,1,2],gbina:2,gener:2,generir:0,generirajmo:1,generiramo:1,generiran:1,generiranj:[],generirati:1,get:[],give:[],glavami:2,glavnem:1,glej:2,glejt:[1,2],go:[],gpio:2,graf:[1,2],grafu:[1,2],graph:2,gre:[0,1,2],grid:2,guid:[],gumb:2,gumba:1,gumbom:[1,2],h:1,have:[],hdhpk14:[],header:2,heer:[],hello:1,help:[],here:[],highlight:1,hitro:1,hitrost:2,hitrosti:1,hkrati:2,hkratni:2,hobbyist:2,holdgraf:[],holdgraf_evidence_2014:[],hot:[],how:[],htjgeojc4za:[],html:[0,1],http:[],human:[],hz:[1,2],i2c:2,i:1,ignor:[],ii:[],ikono:1,im:2,ima:2,imag:[],imajo:[0,1],imenovan:1,includ:[],indek:2,indeksa:2,index:2,individualiziran:[1,2],individualizirana:0,inform:[],informacij:0,init:[],inlin:[],input:1,insert:[],instruct:[],instrument:1,instrumentov:1,integ:1,integracij:2,integracija:2,integriran:2,interact:[],interaktivnih:0,intern:[],invalid:[],ion:[],ipykernel_11680:[],ipykernel_13948:[],ipykernel_14608:[],ipykernel_16452:[],ipykernel_18788:[],ipykernel_18828:[],ipykernel_19740:[],ipykernel_5188:[],ipykernel_7136:[],ipynb:[],isstem:[],istem:2,iteracij:2,iteracijah:2,iteracijam:1,iteracijami:2,iteriramo:[1,2],iteriranju:1,iz:[0,1,2],izberemo:1,izbira:2,izbiro:2,izbrali:2,izbran:1,izbranega:[1,2],izbranem:2,izbranih:2,izbrano:[1,2],izhodni:2,izklop:2,izklopa:2,izklopimo:1,izm:[1,2],izpi:1,izrisovali:2,izrisuj:2,izvaja:0,izvajanj:1,izvajanja:1,izvedbam:1,izvedbi:[0,2],izvedejo:1,izvedemo:1,izvorna:0,izvoz:1,izvozit:1,je:[0,1,2],jezik:1,jezikih:1,jezikov:1,jeziku:1,jih:[0,1],jo:[0,1,2],jupyt:[0,1,2],jupyterbook:[],jupytext:[],just:[],k1:2,k2:2,k:2,kabel:2,kadar:2,kanal:2,kanal_1:2,kanal_2:2,kanala:2,kanali:2,kanalih:2,kanalov:2,kanalu:2,kasnej:1,kater:2,katerega:[1,2],kateregakoli:2,katerem:[0,2],kateri:[],katerih:[0,1,2],katerim:1,katerimi:2,katerm:[1,2],katero:1,keep:[],kei:[1,2],ker:2,kernel:[],ki:[0,1,2],kind:[],kjer:[1,2],klik:1,klikom:1,kljub:2,km:1,knight:[],ko:[1,2],koaksialn:2,koaksialnih:2,koda:0,kode:1,kodo:[0,1,2],koliko:2,komentarj:0,komentirajt:0,kompatibilnimi:1,komponento:2,komunikacij:1,konec:1,kontinuirano:1,kontroln:2,kontrolnega:1,kontrolnih:1,kontrolnimi:1,koristn:0,kot:[0,1],kratk:0,kratkem:1,kratko:[0,2],krmiljenj:2,krmiljenja:1,krmiln:[1,2],krmilni:2,la_:[],label:2,laboratorijskih:[0,1],labview:0,lahko:[1,2],languag:[],last:[],led:2,legend:2,len:2,let:[],letnem:0,letnika:0,lfilter:2,lib:[],like:[],limit:2,line2d:[],line:[],linspac:2,list:1,ljubljani:0,ll:[],loaded_data:2,loaded_data_2:2,loc:2,local:[],logspac:[],lot:[],ls:2,lvm:[1,2],lvm_data:[],lvm_read:[1,2],lw:2,m:1,magistrskega:0,major:[],make:[],makerhub:2,manag:2,mani:[],markdownfil:[],markedli:[],markup:[],math:[],mathrm:2,matplotlib:2,mbox:[],md:[],mea:1,mean:[],measur:1,med:[1,2],medium:[],mejah:2,mejitev:[],meni:1,menija:2,meniju:[0,1],meriln:2,merilnega:2,merilnih:2,merilno:2,merjenja:2,merjenju:2,metod:1,mikrokrmilniku:2,modela:2,modro:2,modul:[],modula:1,moramo:[1,2],more:[],moreov:[],most:[],multi_head:[1,2],multiprocess:1,must:[],n:2,na:[0,1,2],nabor:[1,2],naboru:2,nadgradimo:1,nadgradit:2,nadzorno:2,nadzorovati:2,naj:[1,2],najdemo:1,najdet:[0,1,2],najprej:0,nalg:2,nalog:[1,2],naloga:[],nalogi:[0,1],nalogo:0,nam:2,name:2,namen:2,namenjen:[0,1],namenjena:1,namenjeno:1,namesto:[1,2],namig:[1,2],nan:[],naovdilom:0,napajalni:2,napajan:2,napajanj:2,napak:1,napetost:2,napetosti:2,napetostjo:2,napolnimo:1,naprav:2,napravami:2,nasilno:2,naslednjega:0,naslednji:2,nastanku:0,nastavitev:2,nastavitv:2,nastavitvi:2,nastavljenega:2,nastavljeno:2,nation:1,navodila:[1,2],navodilom:0,ne:[1,2],need:[],nekaterimi:1,nekomercialno:2,neodvisn:2,nepopoln:1,neurosci:[],ni:[0,1,2],nist:[0,2],nizi:1,njihov:2,njim:1,note:[],notebook:[0,1,2],np:2,npr:[0,1],number:1,numer:1,numpi:2,o:1,obdelali:1,obdelava_:2,obdelavo:1,obdelujet:2,objavljena:0,oblik:2,oblika:[0,2],obliki:[0,1,2],obliko:[0,2],obstaja:1,ocen:0,od:[1,2],oddaja:[0,2],oddajanj:2,oddajati:2,oddaji:1,oddajo:[0,1,2],oddajt:2,oddati:0,odpiranju:2,odprava:2,odsek:1,odsotnost:0,off:[],offset:2,okolj:1,okolju:[0,1,2],om:1,omejen:2,omejitev:2,one:[],open:2,oper:[1,2],opr:1,oprem:[0,2],opremo:[1,2],optimalna:2,org:[],orodja:1,orodjem:2,orodn:2,osnov:2,osnovi:1,osnovna:1,osnovni:2,osnovnih:2,osnovno:2,osvetljen:2,other:[],out:[],output:2,overview:[],pa:[0,1,2],packag:2,page:[],paket:[1,2],paketom:2,paketov:2,panel:1,paramet:[1,2],parametr:2,parametri:[1,2],parametrov:2,particular:[],paslei:[],path:[],pavz:2,pdf:[0,1,2],peripher:2,pi:2,plb968815d7bb78f9c:[],plot:2,plt:2,png:1,po:[1,2],podan:1,podatek:2,podatk:[0,1,2],podatki:[1,2],podatkov:0,podatkovnega:1,podatkovni:[],podjetja:1,podlagi:1,podoben:1,podobnih:2,podobno:1,podpira:2,podprogram:[1,2],podprograma:1,podprogrami:[],podprogramu:1,podprta:1,podprtih:2,podtkov:1,podtopkov:2,pogled:1,pogledamo:1,pogledu:1,poglejmo:[1,2],pogoja:1,pogosto:2,poleg:1,polj:1,polja:[1,2],polju:1,poljubn:1,poljubno:2,pomag:2,pomembna:2,pomembni:1,pomen:0,ponavljati:1,ponovitev:1,ponovljenim:1,ponovnem:2,poravnaj:1,posameni:2,posamenzih:2,posamezn:2,posameznega:2,posameznem:2,posamezni:[1,2],poseben:0,posebnega:2,posebno:2,poskusit:1,poskusu:2,posodablj:1,posodob:1,posodobijo:1,post:[],postopek:1,potek:1,poteka:[0,2],potreb:2,potrebi:2,potrebn:1,potrebno:[0,1],pove:2,povezan:2,povezanega:2,povezani:2,povezanih:2,povezano:2,povezav:[1,2],povezavami:1,povezavi:1,povezavo:[1,2],povratni:2,povzamet:0,power:[],pozabit:1,pozorni:[0,2],pp:2,prav:[0,2],pravico:0,praviln:2,prebir:1,prebirali:1,prebrano:2,pred:2,predavanja:0,preden:2,predict:[],predlog:0,predlogah:0,predmeta:2,predmetu:[0,1],predpisan:2,predpisaneih:2,predpisanimi:[1,2],predstavit:2,predstavljajo:2,prekin:2,prekinemo:1,preko:[0,2],presegli:2,presenc:[],pretok:1,pretoku:1,pretvor:2,pretvorb:[1,2],pretvorba:1,pretvorbo:[1,2],pretvori:1,pretvorit:0,pretvornik:2,pretvorniku:2,prever:2,preverit:2,preverj:1,preverjanju:0,pri:[0,1,2],pride:1,pridemo:1,pridobljeni:2,pridobljenih:2,prikaz:[1,2],prikaza:1,prikazana:1,prikazanih:[1,2],prikazom:2,prikazuj:[1,2],prikazujmo:1,priklic:1,primer:[1,2],primerna:0,primeru:2,print:1,pripenjajmo:1,priprav:0,pripravi:0,pripravimo:[1,2],pripravit:[0,1,2],pripravljen:[0,2],pripravljeno:1,privzeta:2,procesiranj:0,procesiranja:1,procesiranju:[1,2],procesorsk:2,program:[],programa:[0,1,2],programiranj:[],programiranjem:1,programsk:0,programska:1,programskem:[0,1],programski:1,programskih:[1,2],programsko:1,programu:[1,2],project:[],prop_cycl:[],properli:[],protokolov:1,prvi:[],purpos:[],py:[],pypi:[],pyplot:2,python310:[],python:[0,1],quick:1,r:2,rabo:2,ramsai:[],randn:[],random:[],rang:2,raspberri:2,rate:2,raziskali:0,razloga:0,razporedi:1,razvidni:2,razvitih:2,razvojn:2,rcparam:[],read:[1,2],read_from_pickl:[],read_lin:[],reader_vers:[1,2],realnem:2,realnih:2,recent:[],refer:[],regular:[],rel:[],relativno:2,relink:1,render:[],reproduc:[],rest:[],robert:[],rok:0,run:1,s:[0,1,2],sam:2,same:[],sami:[0,1],samo:2,samodejno:1,samostojno:0,sampl:2,satvek:1,saved_data:1,scipi:[1,2],se:[0,1],sedaj:2,see:[],seed:[],seg:2,segment:[1,2],segmentih:2,segmentov:2,sekundo:1,select:1,semestru:0,separ:[1,2],serijsk:2,serijska:2,serijskih:2,serv:[],sesetavljen:1,seveda:2,shape:2,shift:1,should:[],show:[],shranjen:2,shranjenega:1,shranjenem:1,shranjenih:2,shranjevanj:2,shranjevanju:2,shranjnih:2,shranjujmo:1,shrinka:2,shrinkb:2,si:[0,2],sicer:2,sig:1,sign:[],signal:[1,2],signala:[1,2],signali:2,signalni:2,signalov:0,signalu:[1,2],similar:[],simpl:[],simul:1,simulacijo:2,sin:2,sine:[],sinu:1,sinusnega:1,sinusni:1,sistem:[0,2],sistema:2,site:[],size:2,skaldu:0,sklopu:2,skupaj:[0,2],skupnosti:2,slight:[],slika:2,slike:1,sliki:2,sliko:1,slovar:2,slovarja:2,slovarju:2,small:[],smemo:2,smiselno:2,smo:[1,2],snippet:1,snovjo:0,so:[0,1,2],sodelovanja:0,some:[],space:1,span:[],special:[],specif:[],specifikacij:2,sphinx:[],spi:2,spletnem:0,spodaj:[1,2],spodanja:2,spodnji:2,spoznali:2,sprememb:[0,1],spremembi:1,spremenljivk:2,sproti:1,srojno:1,staikala:1,stand:[],standardnih:1,stanj:2,stanja:2,start:[],starter:[],state:[],stavk:1,stavki:[],stavkom:1,stavku:1,ste:2,stikalom:1,stolpca:2,stolpcev:2,stolpci:2,stolpec:2,store:[],storimo:1,strani:2,string:1,strojn:2,strojno:2,structur:1,struktura:1,strukturi:2,strukturirani:2,sub:1,subplot:[],subvi:1,support:[],sure:[],surov:2,surovih:2,svetujemo:1,svoje:0,svojo:0,syntax:[],syntaxerror:[],t:2,t_complet:2,t_segment:2,t_start:2,ta:1,tab:[],tabe:2,tabel:2,tabelo:2,takega:2,tako:[0,1,2],takoj:1,tega:2,tejl:1,tekstovni:1,tem:[1,2],temelji:[1,2],temp:[],ter:[0,2],termin:2,terminala:2,terminalov:2,test_01:2,test_seg:2,tex:[],text:2,textcoord:2,thei:[],thi:[],thing:[],those:[],time:[1,2],time_pref:[1,2],tipa:1,tipi:[],tool:[],toolkit:2,top:[],topic:[],torej:[1,2],traceback:[],trajanja:2,treat:[],treba:2,trenutno:1,tudi:[0,1,2],tukaj:0,two:[],type:[],u:2,understand:[],upora:1,uporab:[1,2],uporaba:1,uporabili:2,uporabimo:[1,2],uporabit:[1,2],uporabljali:1,uporabljen:2,uporabn:[],uporabna:1,uporabnik:1,uporabniki:2,uporabo:[1,2],uporait:2,upravitelj:2,upravljanik:2,upravljanj:2,us:[],usb:2,usp:0,ustrezn:[0,1],ustreznega:[1,2],ustreznih:[0,2],ustreznim:2,ustrezno:[0,1,2],ustvarimo:1,utf8:[],uvod:[],uvoz:1,v:[0,2],v_:2,v_offset:2,v_pp:2,vaj:0,vajah:0,vaji:[0,2],variat:[],vcc:2,ve:1,vedno:2,vezj:2,vhodi:2,vhodih:2,vhodn:2,vhodni:[1,2],vhodnih:2,vhodnimi:2,vhodov:2,vi:[1,2],vipm:2,virtual:1,virtualni:1,vizualiziramo:1,vklop:2,vklopa:2,vklopimo:1,vnaprej:1,vodi:1,voljo:[1,2],vplivajo:1,vrata:2,vratih:2,vrednost:[1,2],vrednosti:[1,2],vrednostjo:2,vrednsot:2,vrhu:1,vrsti:1,vrstic:2,vrstice:2,vrsto:1,vsak:2,vse:[1,2],vsebin:0,vsebuj:2,vsi:1,vzorcev:1,vzorci:2,vzorni:1,vzpostavi:2,vzpostavitev:2,vzpostavitv:2,want:[],watch:[],waveform:[1,2],well:[],wendi:[],when:[],wherea:[],whether:[],which:[],wire:1,work:[],world:1,write:[1,2],writer_vers:[1,2],written:[],www:[],x0:2,x_column:[1,2],x_dimens:2,xlabel:2,xlim:2,xy:2,xycoord:2,xytext:2,y:2,ylabel:2,ylim:2,you:[],your:[],youtub:[],z:[0,1],za:[0,1,2],zadostn:2,zagonu:1,zahtev:0,zajamit:2,zaje:2,zajem:1,zajema:[1,2],zajemn:2,zajemnega:2,zajemni:2,zajemom:2,zajemu:2,zajet:[1,2],zajetem:2,zajetemu:2,zajetih:1,zajetimi:2,zajeto:2,zank:2,zanki:[1,2],zanko:1,zapakirali:1,zapakiramo:1,zapakirati:1,zapi:2,zapisanih:1,zapisati:1,zapisn:0,zapisu:2,zaporedj:1,zaporednega:2,zaporednimi:2,zapr:2,zapreti:2,zaprti:2,zaprto:1,zaradi:2,zato:[1,2],zavihek:1,zavihku:1,zbrane:2,zgodovino:2,zgornji:2,zgornjo:2,zmogljiv:[1,2],zmogljivosti:2,znotraj:1,zunanjih:2,zunanjimi:2,zvezi:0},titles:["Uvod","<span class=\"section-number\">1. </span>Uvod v LabView","<span class=\"section-number\">2. </span>LabView in Arduino, Python"],titleterms:{"1":[1,2],"10":[1,2],"2":[1,2],"3":[1,2],"4":[1,2],"5":[1,2],"6":1,"7":1,"8":1,"9":1,"blji\u017enic":1,"case":1,"doma\u010d":0,"doma\u010da":[1,2],"while":1,For:1,add:[],an:[],arduino:2,arduinom:2,atmega328p:2,avtomatizacija:2,block:[],book:[],branj:2,cell:[],citat:[],code:[],content:[],creat:[],datotek:1,dg1022:2,digitalni:2,directiv:[],exampl:[],file:[],generatorja:2,generiranj:1,i:2,jupyt:[],krmilni:1,labview:[1,2],learn:[],linx:2,markdown:[],metadata:[],minut:2,more:[],myst:[],nalog:0,naloga:[0,1,2],notebook:[],o:2,obdelava:2,opozorilo:2,output:[],podatkov:[1,2],podatkovni:1,podprogrami:1,povezava:2,pozorilo:[],preverjanj:0,program:[1,2],programiranj:1,prvi:[1,2],python:2,quickli:[],rigol:2,role:[],sampl:[],shranjevanj:1,signalov:[1,2],stavek:1,stavki:1,terminali:2,tipi:1,u:1,uno:2,uporaba:2,uporabn:1,uvod:[0,1],v:1,vsebina:0,welcom:[],what:[],yaml:[],your:[],z:2,zajem:2,zajetih:2,zank:1,zanka:1}})

diff --git a/notebooks/02 - LabView in Arduino, Python.html b/notebooks/02 - LabView in Arduino, Python.html
@@ -422,14 +422,14 @@ const thebe_selector_output = ".output, .cell_output"
             <span class="n">xytext</span><span class="o">=</span><span class="p">(</span><span class="mf">0.25</span><span class="p">,</span> <span class="n">V_pp</span><span class="p">),</span> <span class="n">textcoords</span><span class="o">=</span><span class="s1">&#39;data&#39;</span><span class="p">,</span>
             <span class="n">arrowprops</span><span class="o">=</span><span class="nb">dict</span><span class="p">(</span><span class="n">arrowstyle</span><span class="o">=</span><span class="s1">&#39;&lt;|-|&gt;&#39;</span><span class="p">,</span> <span class="n">shrinkA</span><span class="o">=</span><span class="mi">0</span><span class="p">,</span> <span class="n">shrinkB</span><span class="o">=</span><span class="mi">0</span><span class="p">,)</span>
             <span class="p">)</span>
-<span class="n">plt</span><span class="o">.</span><span class="n">text</span><span class="p">(</span><span class="mf">0.26</span><span class="p">,</span> <span class="mi">3</span><span class="p">,</span> <span class="s1">&#39;$V_{\mathrm</span><span class="si">{PP}</span><span class="s1">}$&#39;</span><span class="p">)</span>
+<span class="n">plt</span><span class="o">.</span><span class="n">text</span><span class="p">(</span><span class="mf">0.26</span><span class="p">,</span> <span class="mi">3</span><span class="p">,</span> <span class="s1">&#39;$V_{\mathrm</span><span class="si">{PP}</span><span class="s1">}$&#39;</span><span class="p">,</span> <span class="n">fontsize</span><span class="o">=</span><span class="mi">14</span><span class="p">,)</span>
 
 <span class="n">plt</span><span class="o">.</span><span class="n">xlim</span><span class="p">(</span><span class="mi">0</span><span class="p">,</span> <span class="mi">1</span><span class="p">)</span>
 <span class="n">plt</span><span class="o">.</span><span class="n">ylim</span><span class="p">(</span><span class="o">-</span><span class="mi">1</span><span class="p">,</span> <span class="mi">6</span><span class="p">)</span>
 <span class="n">plt</span><span class="o">.</span><span class="n">xlabel</span><span class="p">(</span><span class="s1">&#39;t [s]&#39;</span><span class="p">)</span>
 <span class="n">plt</span><span class="o">.</span><span class="n">ylabel</span><span class="p">(</span><span class="s1">&#39;signal [V]&#39;</span><span class="p">)</span>
 <span class="n">plt</span><span class="o">.</span><span class="n">grid</span><span class="p">(</span><span class="kc">True</span><span class="p">)</span>
-<span class="n">plt</span><span class="o">.</span><span class="n">legend</span><span class="p">();</span>
+<span class="n">plt</span><span class="o">.</span><span class="n">legend</span><span class="p">(</span><span class="n">fontsize</span><span class="o">=</span><span class="mi">14</span><span class="p">);</span>
 </pre></div>
 </div>
 </div>
@@ -604,7 +604,7 @@ const thebe_selector_output = ".output, .cell_output"
 </div>
 </div>
 <div class="cell_output docutils container">
-<div class="output text_plain highlight-myst-ansi notranslate"><div class="highlight"><pre><span></span>&lt;matplotlib.legend.Legend at 0x25052e82080&gt;
+<div class="output text_plain highlight-myst-ansi notranslate"><div class="highlight"><pre><span></span>&lt;matplotlib.legend.Legend at 0x20ca81f7fa0&gt;
 </pre></div>
 </div>
 <img alt="../_images/02 - LabView in Arduino, Python_39_1.png" src="../_images/02 - LabView in Arduino, Python_39_1.png" />
@@ -656,7 +656,7 @@ const thebe_selector_output = ".output, .cell_output"
 </div>
 </div>
 <div class="cell_output docutils container">
-<div class="output text_plain highlight-myst-ansi notranslate"><div class="highlight"><pre><span></span>&lt;matplotlib.legend.Legend at 0x2505514a590&gt;
+<div class="output text_plain highlight-myst-ansi notranslate"><div class="highlight"><pre><span></span>&lt;matplotlib.legend.Legend at 0x20ca8253ee0&gt;
 </pre></div>
 </div>
 <img alt="../_images/02 - LabView in Arduino, Python_45_1.png" src="../_images/02 - LabView in Arduino, Python_45_1.png" />
@@ -698,7 +698,7 @@ const thebe_selector_output = ".output, .cell_output"
 </div>
 </div>
 <div class="cell_output docutils container">
-<div class="output text_plain highlight-myst-ansi notranslate"><div class="highlight"><pre><span></span>&lt;matplotlib.legend.Legend at 0x25055149a50&gt;
+<div class="output text_plain highlight-myst-ansi notranslate"><div class="highlight"><pre><span></span>&lt;matplotlib.legend.Legend at 0x20ca8315330&gt;
 </pre></div>
 </div>
 <div class="output text_plain highlight-myst-ansi notranslate"><div class="highlight"><pre><span></span>&lt;Figure size 432x288 with 0 Axes&gt;
